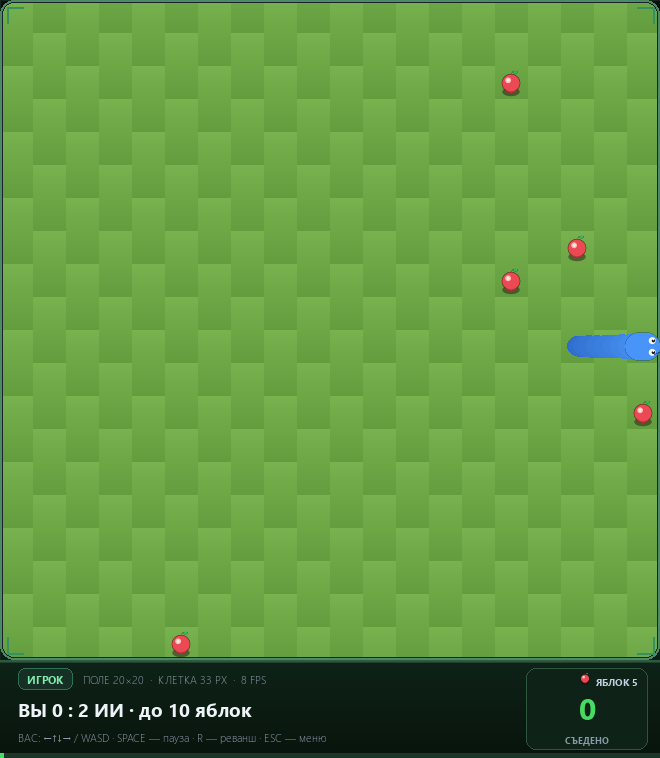
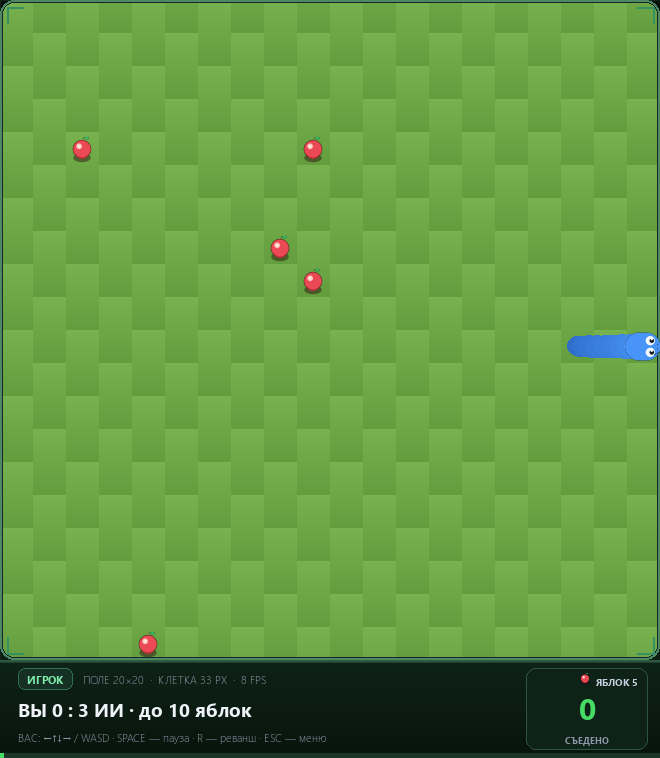
Большие глаза, моргание, ноздри и язык

diff --git a/ui.py b/ui.py
@@ -1,6 +1,7 @@
 # ui.py
 
 import math
+import random
 from pathlib import Path
 
 import pygame
@@ -47,6 +48,16 @@ class UI:
         self.trail = []
         self.head_angle = None
         self._angle_ms = pygame.time.get_ticks()
+
+        self._rng = random.Random()
+        self.blinking = False
+        self.blink_start = 0
+        self.blink_next = 0
+        self.blink_duration = 120
+        self.tongue_active = False
+        self.tongue_start = 0
+        self.tongue_next = 0
+        self.tongue_duration = 360
 
         self.layout = layout or compute_game_layout(
             game.board.width,
@@ -804,6 +815,16 @@ class UI:
         ]
         self.head_angle = None
         self._angle_ms = pygame.time.get_ticks()
+        self._reset_animation()
+
+    def _reset_animation(self) -> None:
+        now = pygame.time.get_ticks()
+        self.blinking = False
+        self.blink_start = now
+        self.blink_next = now + self._rng.randint(2600, 4800)
+        self.tongue_active = False
+        self.tongue_start = now
+        self.tongue_next = now + self._rng.randint(2200, 4300)
 
     @staticmethod
     def _distance(a, b) -> float:
@@ -967,10 +988,74 @@ class UI:
             self.head_angle = (self.head_angle + delta * factor) % 360.0
         self._angle_ms = now
 
+        if not self.blinking and now >= self.blink_next:
+            self.blinking = True
+            self.blink_start = now
+        if self.blinking and now - self.blink_start >= self.blink_duration:
+            self.blinking = False
+            self.blink_next = now + self._rng.randint(2600, 4800)
+
+        if not self.tongue_active and now >= self.tongue_next:
+            self.tongue_active = True
+            self.tongue_start = now
+        if (
+            self.tongue_active
+            and now - self.tongue_start >= self.tongue_duration
+        ):
+            self.tongue_active = False
+            self.tongue_next = now + self._rng.randint(2200, 4300)
+
         angle = int(round(self.head_angle)) % 360
 
         head_size = int(cell * 1.08) + 2
         head_name = f"snake_head_{self.asset_theme}"
+        if self.blinking:
+            head_name += "_blink"
+
+        # Язык рисуется под головой: виден только кончик, который
+        # высовывается изо рта при короткой «вспышке».
+        if self.tongue_active:
+            progress = (
+                now - self.tongue_start
+            ) / max(1, self.tongue_duration)
+            strength = math.sin(math.pi * max(0.0, min(1.0, progress)))
+            if strength > 0.04:
+                radians = math.radians(self.head_angle)
+                fx = math.cos(radians)
+                fy = -math.sin(radians)
+                lx, ly = -fy, fx
+                start = (
+                    points[0][0] + fx * head_size * 0.30 + lx * head_size * 0.05,
+                    points[0][1] + fy * head_size * 0.30 + ly * head_size * 0.05,
+                )
+                length = head_size * 0.85 * strength
+                tip = (
+                    start[0] + fx * length,
+                    start[1] + fy * length,
+                )
+                fork = head_size * 0.22
+                tongue_width = max(2, int(head_size * 0.08))
+                tongue_color = (214, 58, 78)
+
+                pygame.draw.line(
+                    self.screen,
+                    tongue_color,
+                    start,
+                    tip,
+                    tongue_width,
+                )
+                for sign in (-1, 1):
+                    pygame.draw.line(
+                        self.screen,
+                        tongue_color,
+                        tip,
+                        (
+                            tip[0] + fx * fork + lx * sign * fork * 0.7,
+                            tip[1] + fy * fork + ly * sign * fork * 0.7,
+                        ),
+                        tongue_width,
+                    )
+
         head = self._sprite(head_name, head_size, angle)
 
         self.screen.blit(

diff --git a/tools/generate_assets.py b/tools/generate_assets.py
@@ -133,7 +133,7 @@ def snake_tail(top, bottom, scale_color, name):
     save(surface, f"snake_tail_{name}.png")
 
 
-def snake_head(color, name):
+def snake_head(color, name, blink=False):
     surface = canvas()
     mask = canvas()
     head_body = int(S * 0.76)
@@ -153,13 +153,32 @@ def snake_head(color, name):
     surface.fill(color + (255,))
     surface.blit(mask, (0, 0), special_flags=pygame.BLEND_RGBA_MULT)
 
-    # Глаза.
-    eye_x = head_x + int(radius * 0.42)
+    # Большие выразительные глаза.
+    eye_x = head_x + int(radius * 0.28)
     eye_y = int(radius * 0.42)
-    eye_r = max(4, int(S * 0.095))
+    eye_r = max(5, int(S * 0.125))
 
     for sign in (-1, 1):
         cy = MID + sign * eye_y
+
+        if blink:
+            # Закрытый глаз — дуга века, без белка.
+            rect = pygame.Rect(
+                eye_x - eye_r,
+                cy - eye_r // 2,
+                eye_r * 2,
+                eye_r,
+            )
+            pygame.draw.arc(
+                surface,
+                (24, 48, 96),
+                rect,
+                math.radians(200),
+                math.radians(340),
+                max(6, S // 42),
+            )
+            continue
+
         pygame.draw.circle(
             surface,
             (250, 253, 255),
@@ -170,7 +189,7 @@ def snake_head(color, name):
             surface,
             (19, 26, 34),
             (eye_x + eye_r // 3, cy),
-            max(2, int(eye_r * 0.50)),
+            max(3, int(eye_r * 0.50)),
         )
         pygame.draw.circle(
             surface,
@@ -179,15 +198,17 @@ def snake_head(color, name):
             max(2, eye_r // 4),
         )
 
-    # Ноздря.
-    pygame.draw.circle(
-        surface,
-        (24, 48, 96),
-        (head_x + int(radius * 0.78), MID + 5),
-        max(2, S // 130),
-    )
+    # Пара ноздрей у кончика морды.
+    nostril_x = head_x + int(radius * 0.80)
+    for sign in (-1, 1):
+        pygame.draw.circle(
+            surface,
+            (24, 48, 96),
+            (nostril_x, MID + sign * int(radius * 0.16)),
+            max(4, S // 60),
+        )
 
-    # Рот и язычок.
+    # Рот. Язык рисуется отдельно в UI и появляется только при «вспышке».
     pygame.draw.line(
         surface,
         (24, 48, 96),
@@ -196,25 +217,8 @@ def snake_head(color, name):
         max(2, OUTLINE // 2),
     )
 
-    tongue_x = head_x + radius - 4
-    tongue_tip = min(S - 3, tongue_x + int(S * 0.12))
-    pygame.draw.line(
-        surface,
-        (214, 58, 78),
-        (tongue_x, MID + 2),
-        (tongue_tip, MID + 7),
-        max(2, S // 110),
-    )
-    for sign in (-1, 1):
-        pygame.draw.line(
-            surface,
-            (214, 58, 78),
-            (tongue_tip, MID + 7),
-            (tongue_tip - 5, MID + 7 + sign * 8),
-            max(2, S // 110),
-        )
-
-    save(surface, f"snake_head_{name}.png")
+    suffix = "_blink" if blink else ""
+    save(surface, f"snake_head_{name}{suffix}.png")
 
 
 def apple():
@@ -306,6 +310,7 @@ for palette, top, bottom, scale_color, head_color in (
     snake_corner(top, bottom, scale_color, palette)
     snake_tail(top, bottom, scale_color, palette)
     snake_head(head_color, palette)
+    snake_head(head_color, palette, blink=True)
 
 apple()
 board_tile(True)

diff --git a/README.md b/README.md
@@ -117,7 +117,9 @@ python main.py
 равные расстояния вдоль этого следа. Голова — вытянутая капсула без
 прямых углов; при поворотах она вращается с временным сглаживанием, а
 сам спрайт поворачивается в увеличенном масштабе и уменьшается уже
-после поворота. Логика игры идёт с выбранной частотой (`FPS = 8` по
+после поворота. У головы большие глаза, которые периодически моргают,
+две ноздри и спрятанный язык: раз в несколько секунд он высовывается
+и снова прячется. Логика игры идёт с выбранной частотой (`FPS = 8` по
 умолчанию), а кадры рисуются с `RENDER_FPS = 60`, поэтому на поворотах
 длинная змейка не дёргается даже на 4 FPS.
 

diff --git a/HISTORY.md b/HISTORY.md
@@ -14,7 +14,8 @@ Git-репозиторий был инициализирован задним ч
 6. сглаживание движения через след головы;
 7. выбор скорости игры (4–20 FPS) в меню;
 8. сглаживание головы и её поворота на низком FPS;
-9. отчёт, скриншоты и историческая версия `safe_cycle_ai` с метриками.
+9. большие глаза, моргание, ноздри и периодический язык;
+10. отчёт, скриншоты и историческая версия `safe_cycle_ai` с метриками.
 
 Историческая версия с чистым циклом лежит в
 [`versions/safe_cycle_ai`](versions/safe_cycle_ai). Её метрики:
